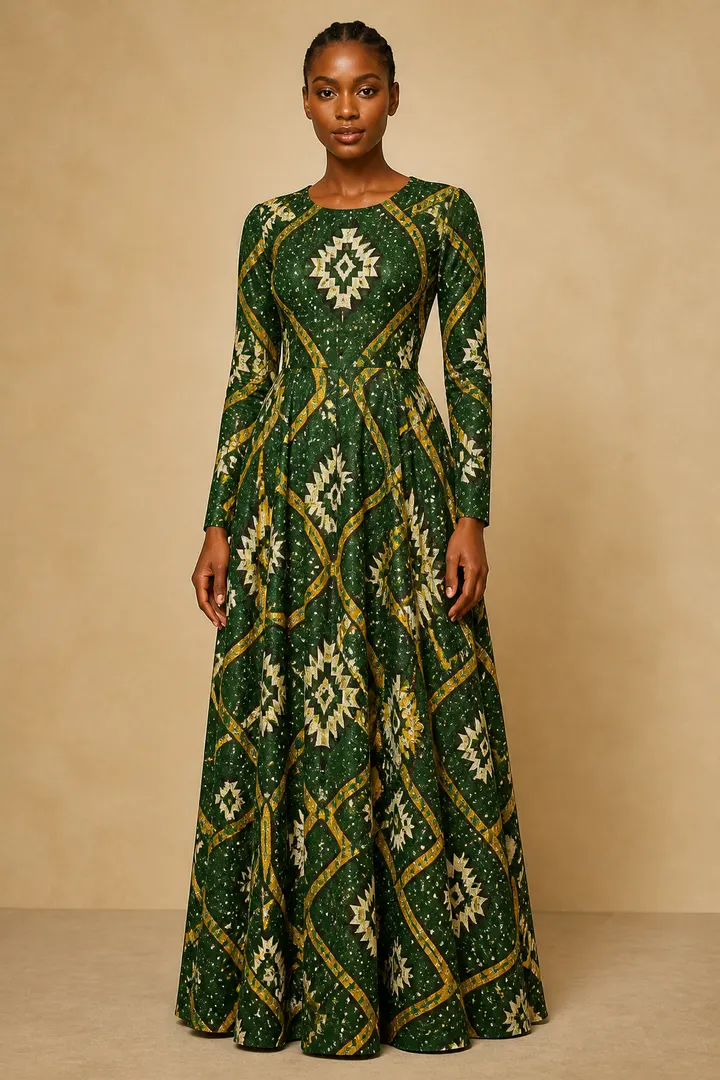
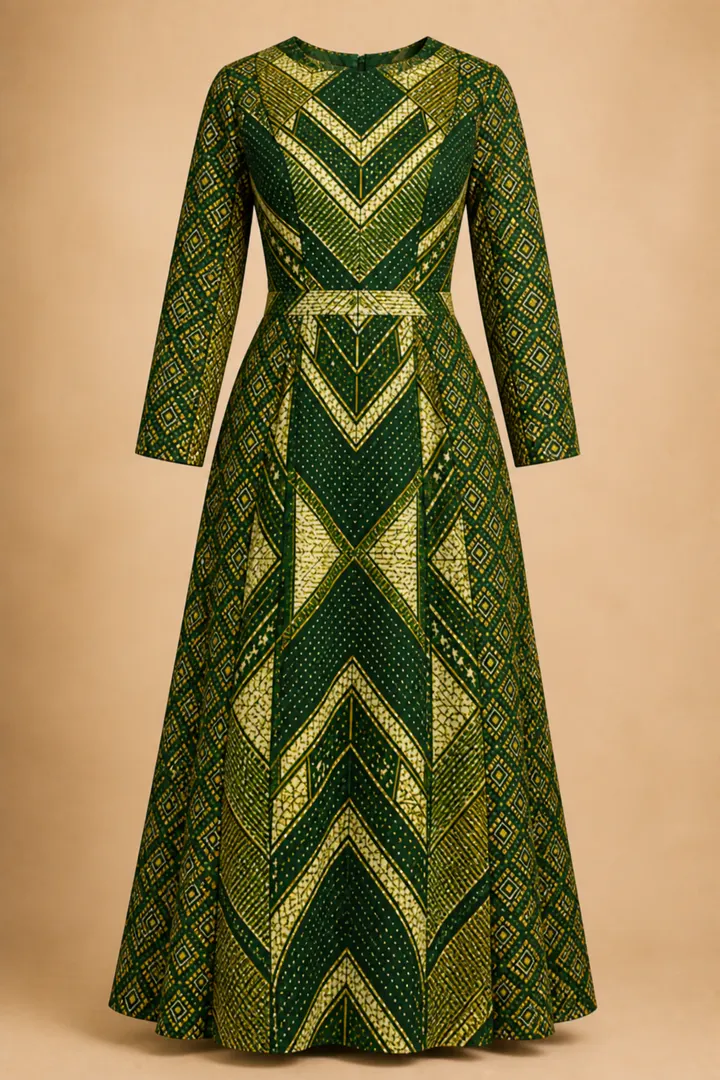
refactor(garments): compact reference image cards

diff --git a/src/components/GarmentTypeStep.tsx b/src/components/GarmentTypeStep.tsx
@@ -66,6 +66,10 @@ export const getGarmentTypeStepLabel = (
 
 const FIRST_VISIBLE_REFERENCE_IMAGE_COUNT = 3;
 
+/** Compact Step 1 reference frame (~20% shorter than the prior 4:5 crop). */
+export const STEP1_GARMENT_REFERENCE_FRAME_CLASS =
+  "relative aspect-square w-full overflow-hidden rounded-t-2xl bg-[#f4eee6]";
+
 export const Step1GarmentReferencePhoto = ({
   src,
   alt,
@@ -79,7 +83,7 @@ export const Step1GarmentReferencePhoto = ({
 
   return (
     <div
-      className="relative aspect-[4/5] w-full overflow-hidden rounded-t-2xl bg-[#f4eee6]"
+      className={STEP1_GARMENT_REFERENCE_FRAME_CLASS}
       data-testid="step1-garment-reference-frame"
     >
       {failed || !src ? (
@@ -373,7 +377,7 @@ export const GarmentTypeStep = ({
           <p className="mt-4 text-xs leading-relaxed text-heritage-ink/55 lg:col-span-full">
             {STEP1_GARMENT_REFERENCE_DISCLAIMER}
           </p>
-          <div className="mt-4 grid min-w-0 grid-cols-2 gap-3 max-[340px]:grid-cols-1 xl:grid-cols-3 lg:col-span-full">
+          <div className="mt-4 grid min-w-0 grid-cols-2 gap-2.5 max-[340px]:grid-cols-1 xl:grid-cols-3 lg:col-span-full">
             {presentation.categories.map((category, index) => {
               const price = category.constructionPricing;
               const isResolved = price?.status === "resolved";
@@ -405,7 +409,7 @@ export const GarmentTypeStep = ({
                     eager={index < FIRST_VISIBLE_REFERENCE_IMAGE_COUNT}
                   />
                   <span
-                    className={`flex min-w-0 flex-1 flex-col p-3 sm:p-4 ${
+                    className={`flex min-w-0 flex-1 flex-col p-2.5 sm:p-3 ${
                       category.selected && !isResolved
                         ? "bg-amber-50"
                         : category.selected
@@ -448,7 +452,7 @@ export const GarmentTypeStep = ({
                       </span>
                     )}
                     <span
-                      className={`mt-3 inline-flex min-h-9 w-full items-center justify-center rounded-xl px-2 text-[11px] font-bold uppercase tracking-wider ${
+                      className={`mt-2.5 inline-flex min-h-8 w-full items-center justify-center rounded-xl px-2 text-[11px] font-bold uppercase tracking-wider ${
                         category.selected
                           ? "bg-heritage-green text-white"
                           : "border border-heritage-gold/40 text-heritage-green"

diff --git a/test_step1_garment_reference_images.tsx b/test_step1_garment_reference_images.tsx
@@ -8,6 +8,7 @@ import { act, create } from "react-test-renderer";
 import { SEED_CUSTOM_DETAIL_CATALOG } from "./src/config/GarmentDetailsConfig";
 import {
   GarmentTypeStep,
+  STEP1_GARMENT_REFERENCE_FRAME_CLASS,
   Step1GarmentReferencePhoto,
   getGarmentTypeStepLabel,
 } from "./src/components/GarmentTypeStep";
@@ -89,6 +90,10 @@ assert.equal(
 );
 assert.ok(emptyMarkup.includes('loading="eager"'));
 assert.ok(emptyMarkup.includes('loading="lazy"'));
+assert.ok(
+  emptyMarkup.includes('class="relative aspect-square w-full'),
+  "Step 1 reference frames must use the compact square aspect crop",
+);
 
 for (const garmentType of CUSTOMER_SELECTABLE_GARMENT_TYPES) {
   assert.ok(isStep1GarmentReferenceType(garmentType));
@@ -153,7 +158,8 @@ assert.equal(
 const fallbackFrame = fallbackRenderer.root.findByProps({
   "data-testid": "step1-garment-reference-frame",
 });
-assert.ok(fallbackFrame.props.className.includes("aspect-[4/5]"));
+assert.ok(fallbackFrame.props.className.includes("aspect-square"));
+assert.equal(STEP1_GARMENT_REFERENCE_FRAME_CLASS.includes("aspect-square"), true);
 
 let selectableRenderer: ReturnType<typeof create>;
 act(() => {
